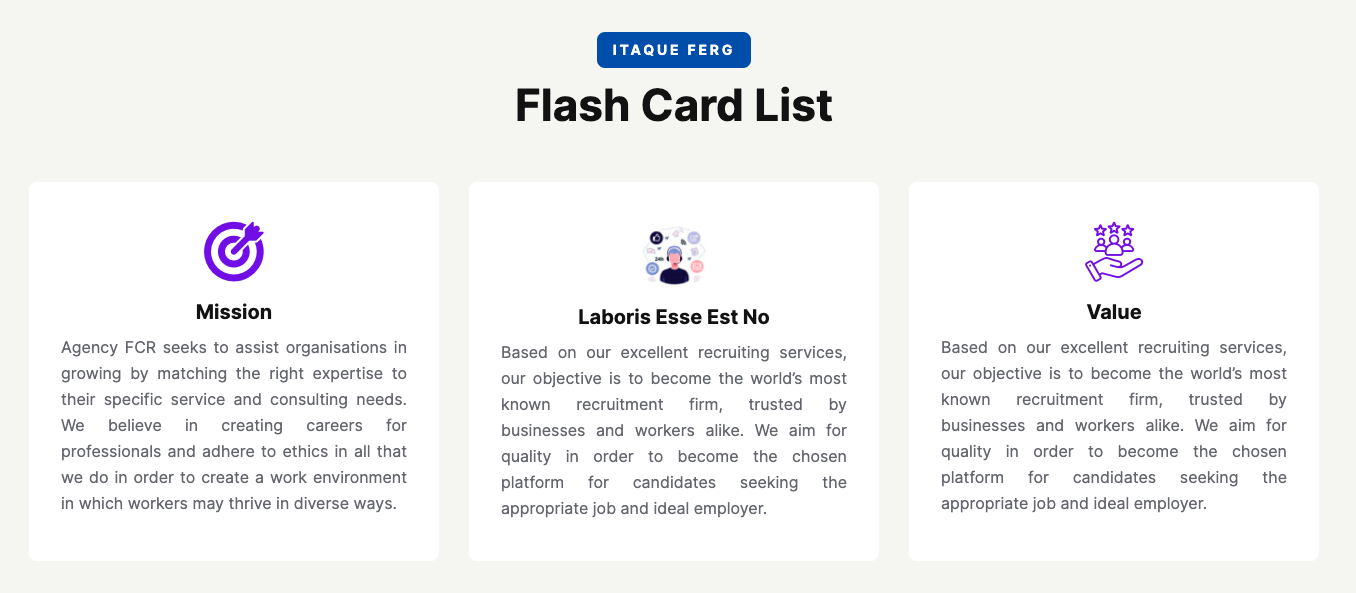
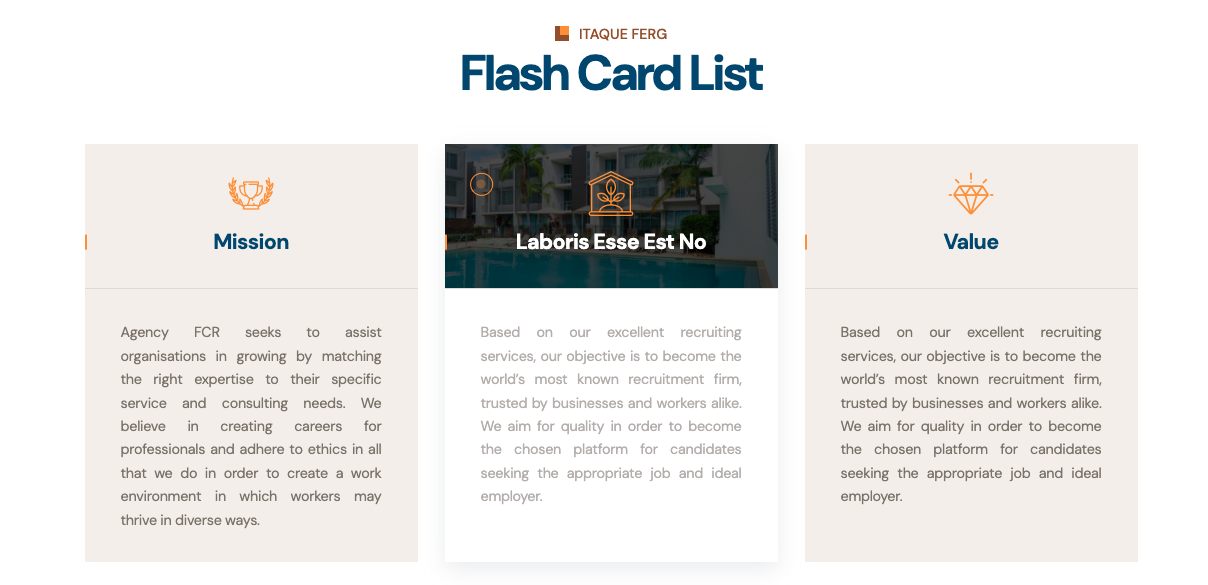
header description dynamic page

diff --git a/public/assets/frontend/css/floens.css b/public/assets/frontend/css/floens.css
@@ -15994,4 +15994,76 @@ body.boxed-wrapper .projects-one__shape {
 .text-align-justify{
     text-align: justify;
 }
+
+.custom-description h1, .custom-description h2, .custom-description h2, .custom-description h4{
+    margin-top: 22px;
+}
+
+.custom-description p {
+    font-weight: 400;
+    line-height: 1.9;
+    letter-spacing: -0.32px;
+    margin-bottom: 0;
+    transition: all 500ms ease;
+    font-size: 18px;
+}
+
+.custom-description ul, .custom-description ol{
+    padding-left: 0;
+    margin-bottom: 25px;
+    margin-top: 25px;
+    list-style: none;
+}
+.custom-description ul li, .custom-description ol li{
+    color: var(--floens-text);
+    position: relative;
+    padding-left: 35px;
+    line-height: 30px;
+}
+.custom-description ul li:before, .custom-description ol li:before{
+    color: var(--floens-base);
+    position: absolute;
+    left: 0;
+    top: 7px;
+    -webkit-font-smoothing: antialiased;
+    display: inline-block;
+    font-style: normal;
+    font-variant: normal;
+    text-rendering: auto;
+    line-height: 1;
+    font-family: "Font Awesome 6 Free";
+    font-weight: 900;
+    content: "\f0a9";
+}
+.custom-description ul li:before{
+    content: "\f00c";
+}
+.custom-description ol li:before{
+    content: "\f0a9";
+}
+.custom-description blockquote{
+    padding: 20px 40px 32px;
+    color: var(--floens-text, #7A736A);
+    background-color: var(--floens-white2, #F2EEEA);;
+}
+
+.custom-description blockquote p{
+    margin-left: 35px;
+    padding-bottom: 10px;
+}
+.custom-description blockquote:before{
+    -webkit-font-smoothing: antialiased;
+    display: inline-block;
+    font-style: normal;
+    font-variant: normal;
+    text-rendering: auto;
+    line-height: 1;
+    font-family: "Font Awesome 6 Free";
+    font-weight: 900;
+    content: "\f10d";
+    font-size: 30px;
+    position: relative;
+    top: 30px;
+}
+
 /*# sourceMappingURL=floens.css.map */

diff --git a/resources/views/frontend/page/includes/header_description.blade.php b/resources/views/frontend/page/includes/header_description.blade.php
@@ -1,17 +1,20 @@
-<div class="content-detail-block pb-100">
+<section class="blog-page section-space">
     <div class="container">
-        <div class="row row-gap-32">
-            <div class="col-12 col-xl-12">
-                <div class="content-para pr-55">
-                    <div class="text text-center">
-                        <div class="heading3 mt-30 mb-3">{{ $element->first()->subtitle ?? '' }}</div>
+        <div class="row gutter-y-60">
+            <div class="col-lg-12">
+                <div class="blog-details">
+                    <div class="sec-title sec-title--border sec-title--center">
+                        <h3 class="sec-title__title">{{ $element->first()->subtitle ?? '' }}</h3>
                     </div>
-                    <div class="body3 text-secondary text-align-justify custom-description">
-                        {!! $element->first()->description ?? '' !!}
+                    <div class="blog-card wow fadeInUp" data-wow-delay="00ms" data-wow-duration="1500ms">
+                        <div class="blog-card__content">
+                            <div class="blog-card__text blog-card__text--two text-align-justify custom-description">
+                                {!! $element->first()->description ?? '' !!}
+                            </div>
+                        </div>
                     </div>
                 </div>
-            </div>
-
+            </div><
         </div>
     </div>
-</div>
+</section>
